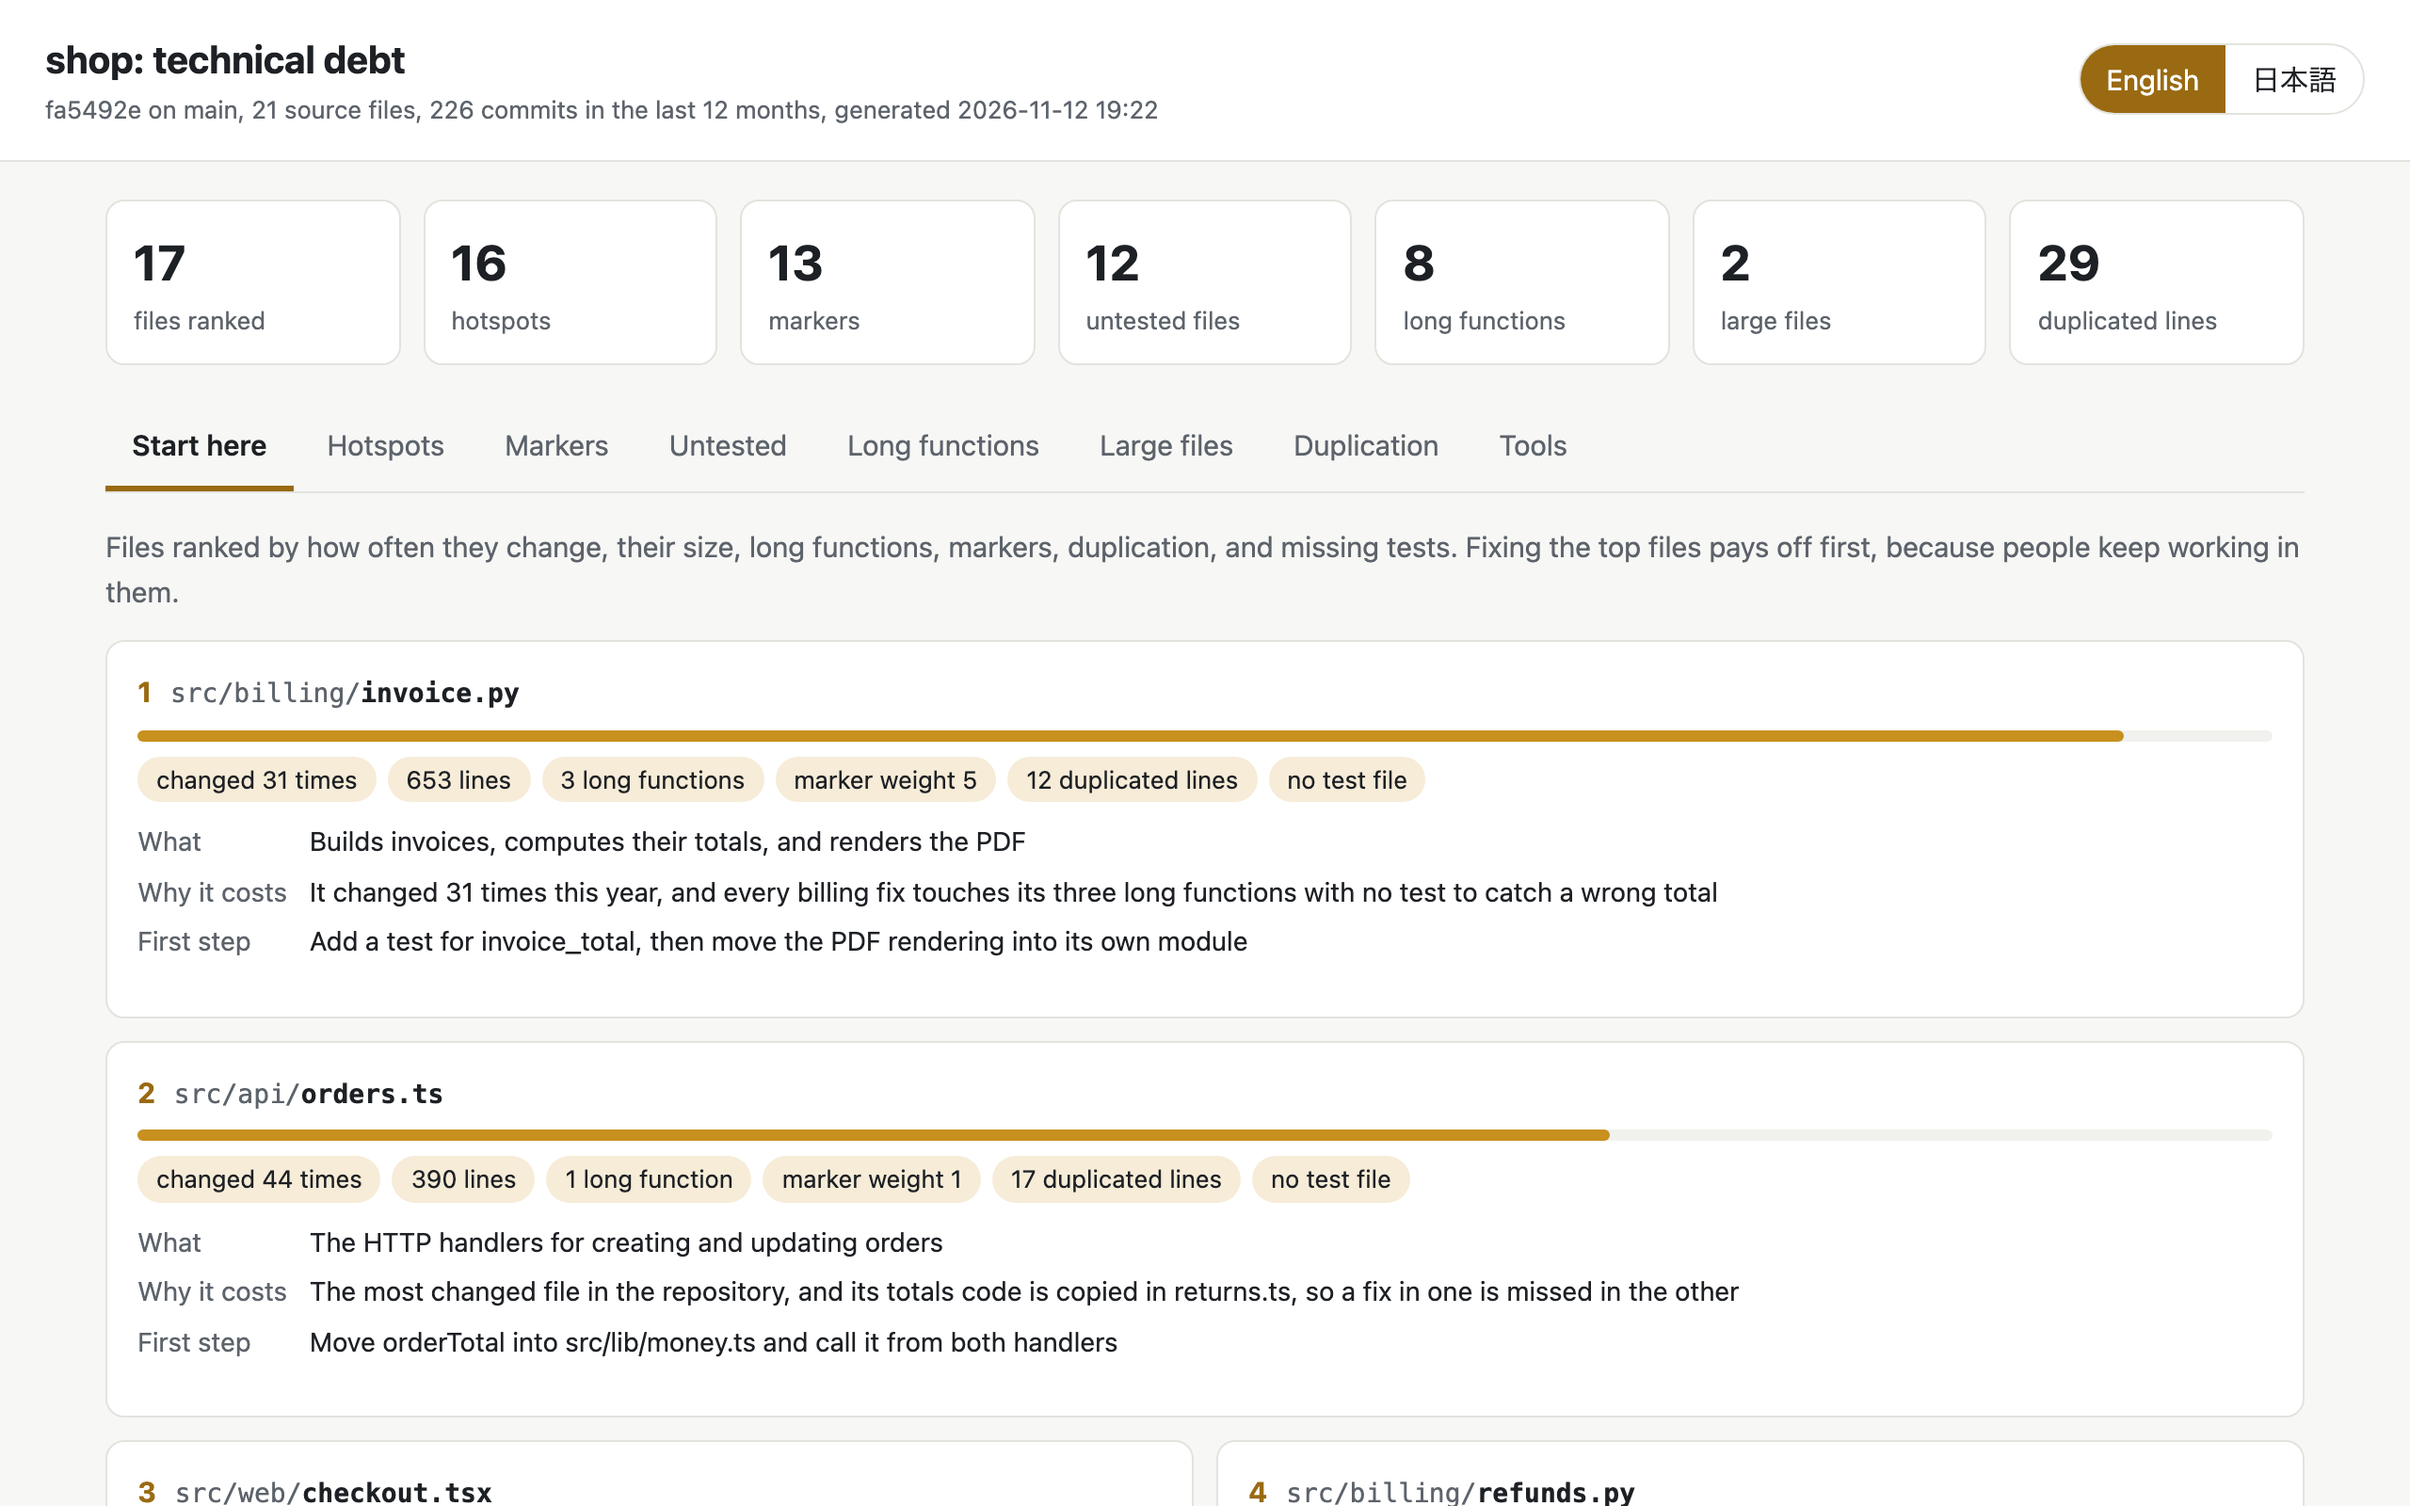
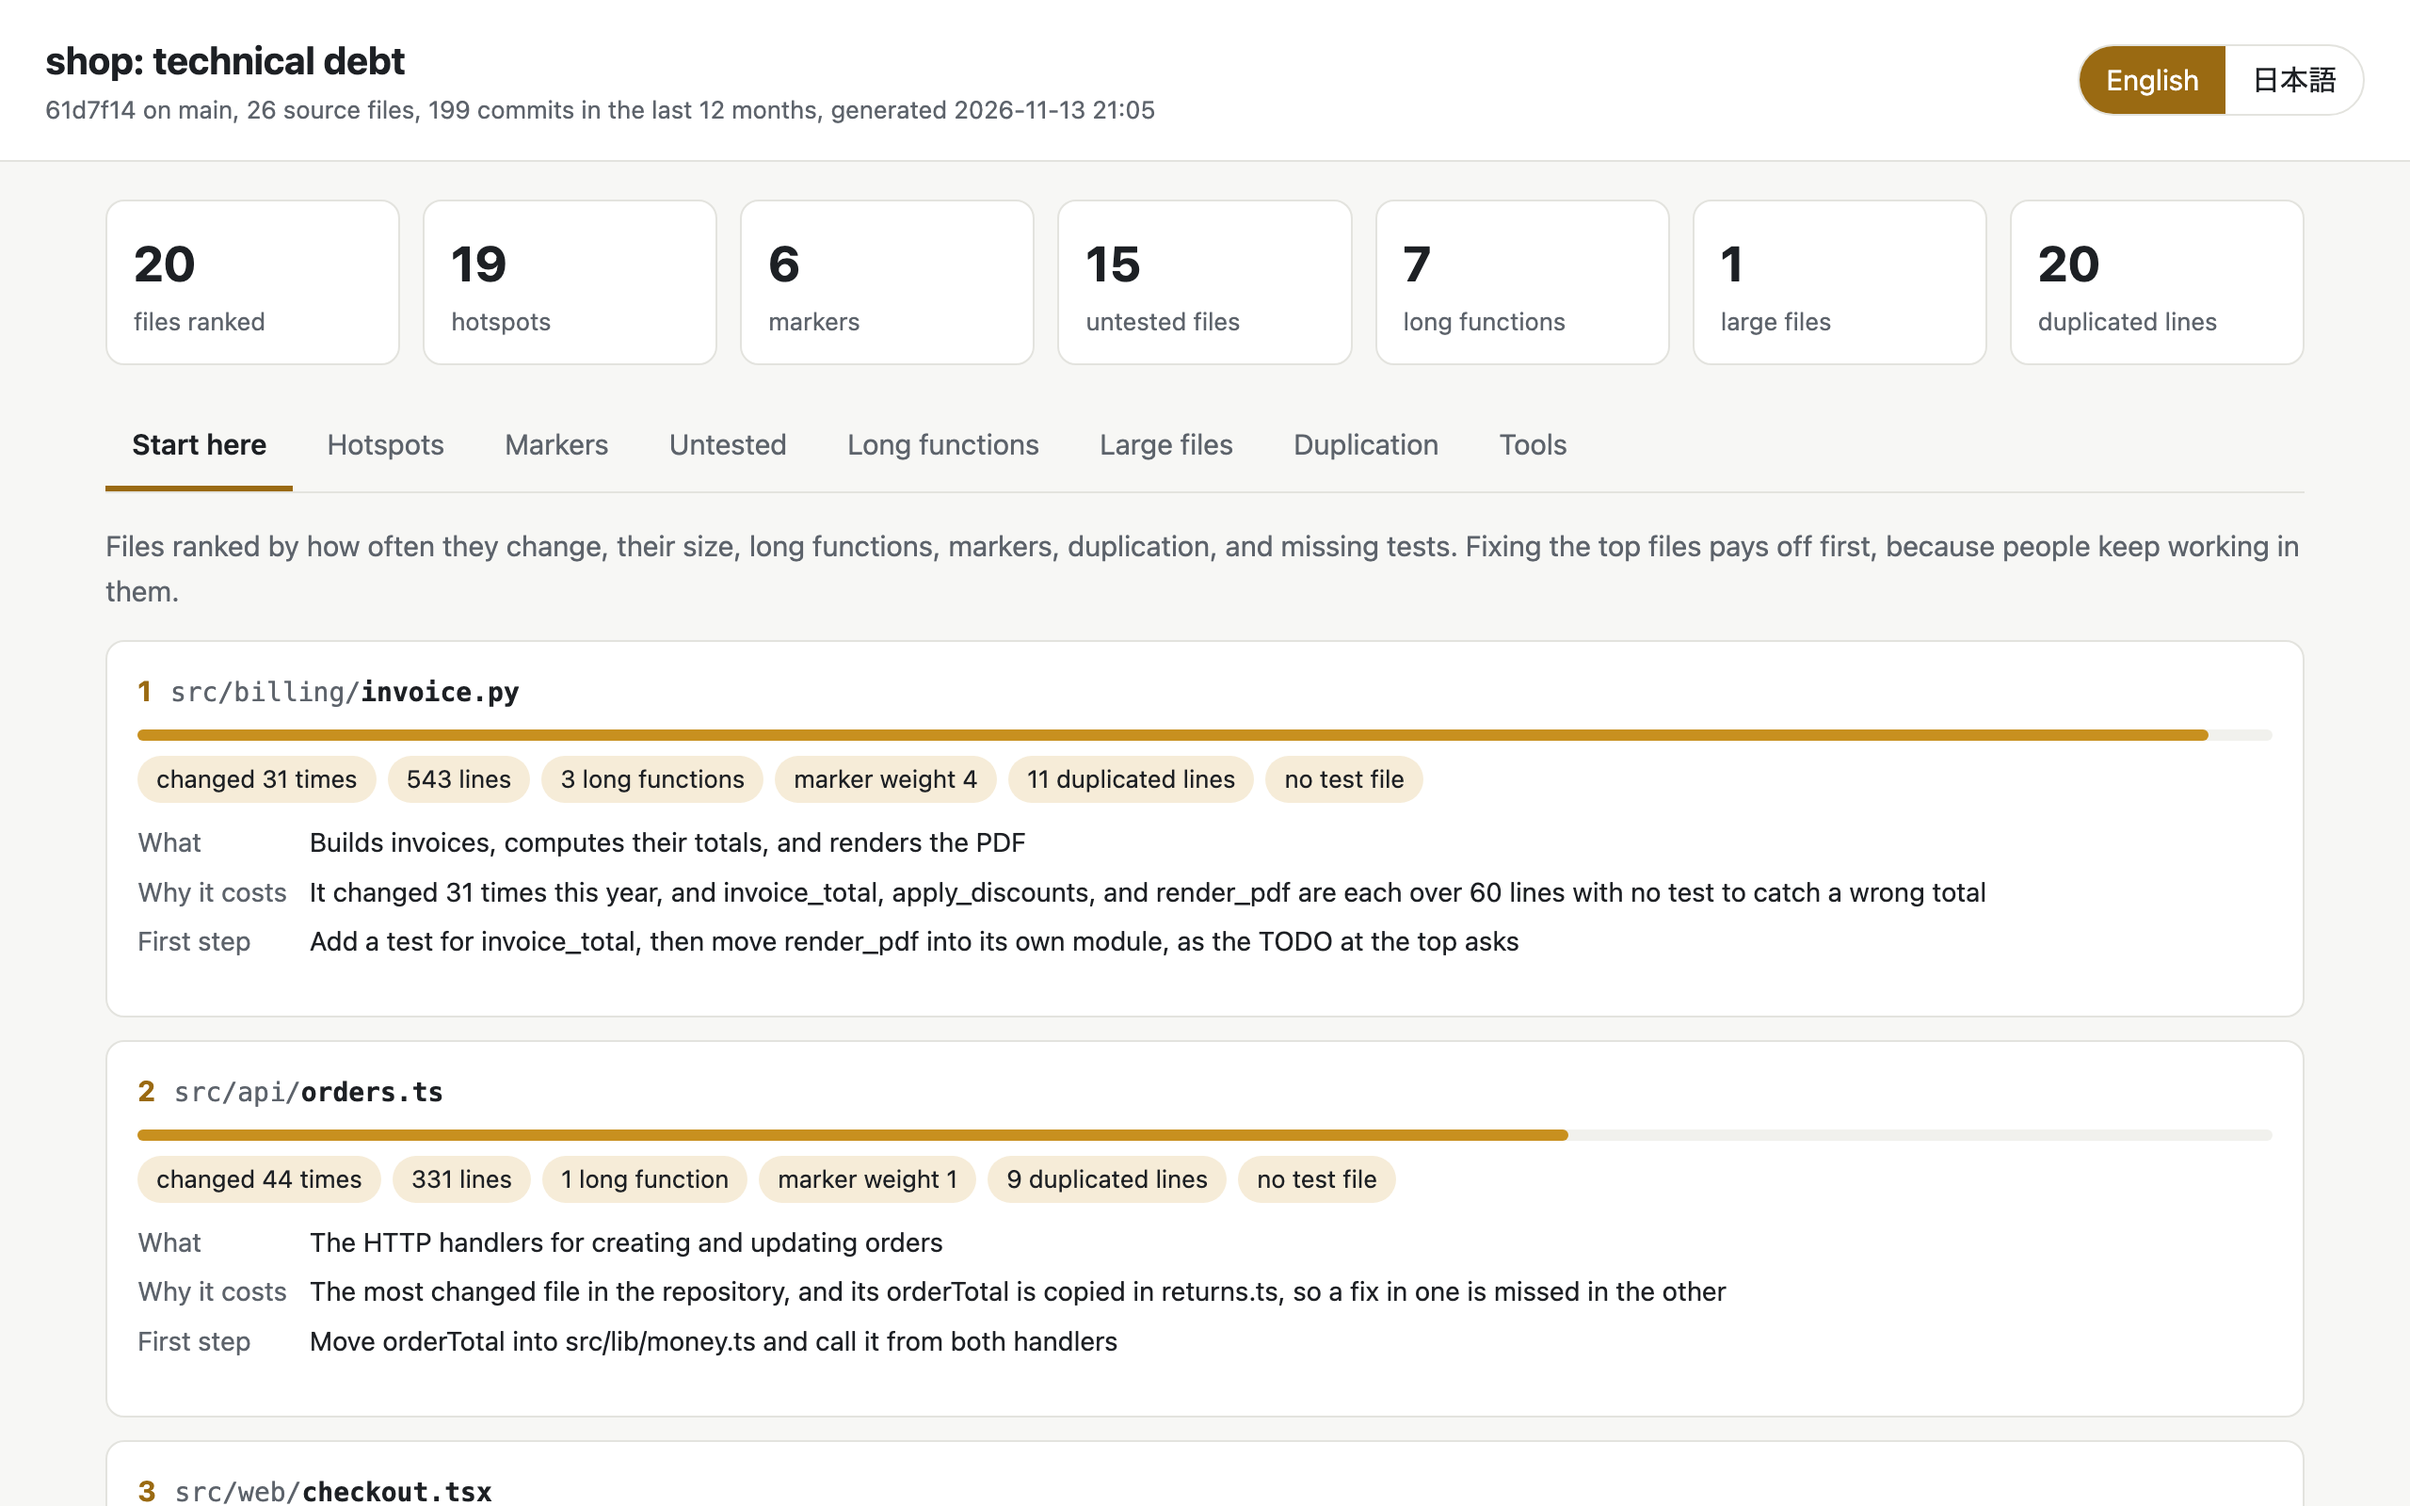
📝 docs(techdebt): make the README's summary and screenshot come from one real scan (#86)
The screenshot and the text summary both showed a project named shop with
the same top files, but their numbers disagreed, and the summary was not
what a scan prints. Both now come from one scan of one generated sample
repository: the summary is the first 15 lines that scan printed, and the
screenshot is the report page that explain built from the same scan with
notes on the top four files.

diff --git a/plugins/techdebt/README.md b/plugins/techdebt/README.md
@@ -43,22 +43,27 @@ In GitHub Copilot CLI, write `/techdebt` in your request, and in Gemini CLI, des
 2. The agent ranks the files and reads the top ones to write what each is, why it costs the team, and the first step to fix it
 3. The agent opens the report and sums up the top files and the totals in the chat
 
-The scan prints a summary like this.
+The scan of the repository in the screenshot starts like this.
 
 ```text
-techdebt scan of ~/work/shop (HEAD 3f2a91c on main, 412 source files, 96 test files, 388 commits in the last 12 months)
-Hotspots:       118 files changed 2 or more times
-Markers:        57 (FIXME 9, HACK 3, TODO 41, deprecated 4), oldest 1312 days
-Untested:       64 source files have no test file with a matching name
-Long functions: 22 over 60 lines
-Large files:    7 over 500 lines
-Duplication:    11 blocks, 214 lines
-Tool knip:      38 findings
+techdebt scan of ~/work/shop (HEAD 61d7f14 on main, 26 source files, 5 test files, 199 commits in the last 12 months)
+Hotspots:       19 files changed 2 or more times
+Markers:        6 (FIXME 1, HACK 1, TODO 4), oldest 360 days
+Untested:       15 source files have no test file with a matching name
+Long functions: 7 over 60 lines
+Large files:    1 over 500 lines
+Duplication:    2 blocks, 20 lines
+Tool ruff:      not run, ruff is not installed in .venv/bin or on PATH
 
 Start here
- 1  src/billing/invoice.py  score 0.86  changed 31 times, 612 lines, 3 long functions, marker weight 5, no test file
- 2  src/api/orders.ts  score 0.71  changed 44 times, 380 lines, 1 long function, 26 duplicated lines
+ 1  src/billing/invoice.py  score 0.97  changed 31 times, 543 lines, 3 long functions, marker weight 4, 11 duplicated lines, no test file
+ 2  src/api/orders.ts  score 0.67  changed 44 times, 331 lines, 1 long function, marker weight 1, 9 duplicated lines, no test file
+ 3  src/web/checkout.tsx  score 0.40  changed 25 times, 220 lines, 2 long functions, marker weight 2, no test file
+ 4  src/billing/refunds.py  score 0.36  changed 18 times, 163 lines, 1 long function, marker weight 1, 11 duplicated lines, no test file
+ 5  src/api/returns.ts  score 0.17  changed 13 times, 70 lines, 9 duplicated lines, no test file
 ```
+
+The ranking goes on to 20 files, and the last two lines give the folders of the data and the report.
 
 The report has a tab for the ranking and one per measure, and switches between English and Japanese.
 

diff --git a/plugins/techdebt/CHANGELOG.md b/plugins/techdebt/CHANGELOG.md
@@ -5,6 +5,8 @@ Versions follow semantic versioning: a major release changes how the plugin is c
 
 ## [Unreleased]
 
+- The README's summary and screenshot come from one scan of one sample repository, so their numbers agree
+
 ## [0.2.0] - 2026-11-12
 
 - Works in GitHub Copilot CLI, Gemini CLI, and other agents that read `SKILL.md`, and the README shows how to install it there
